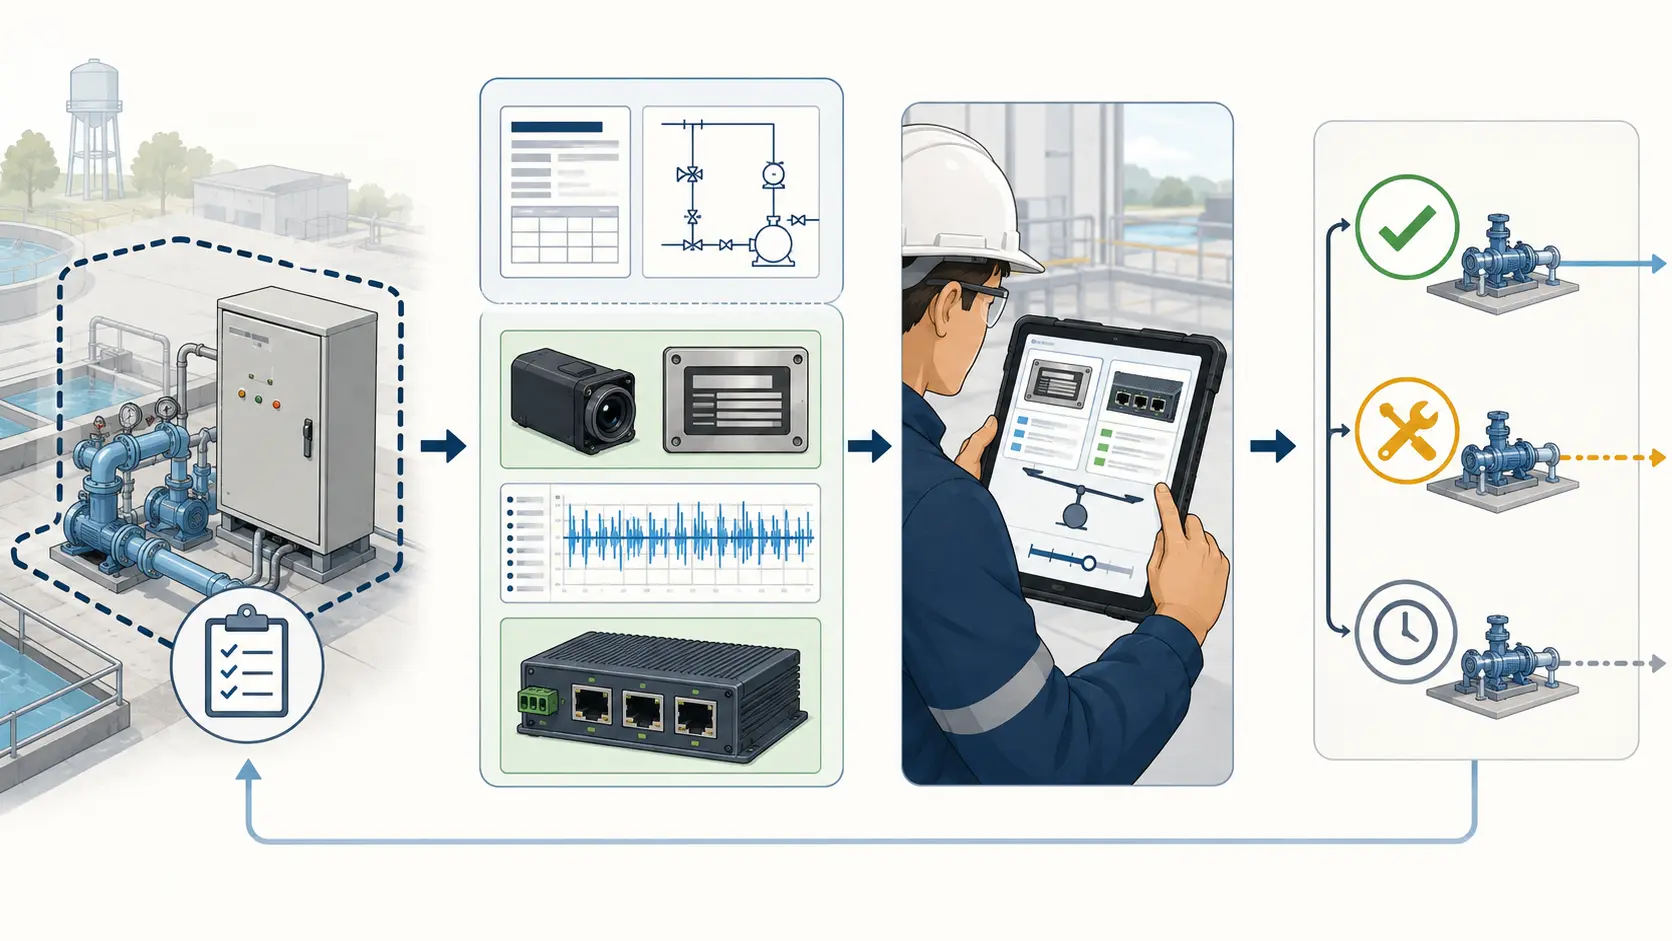
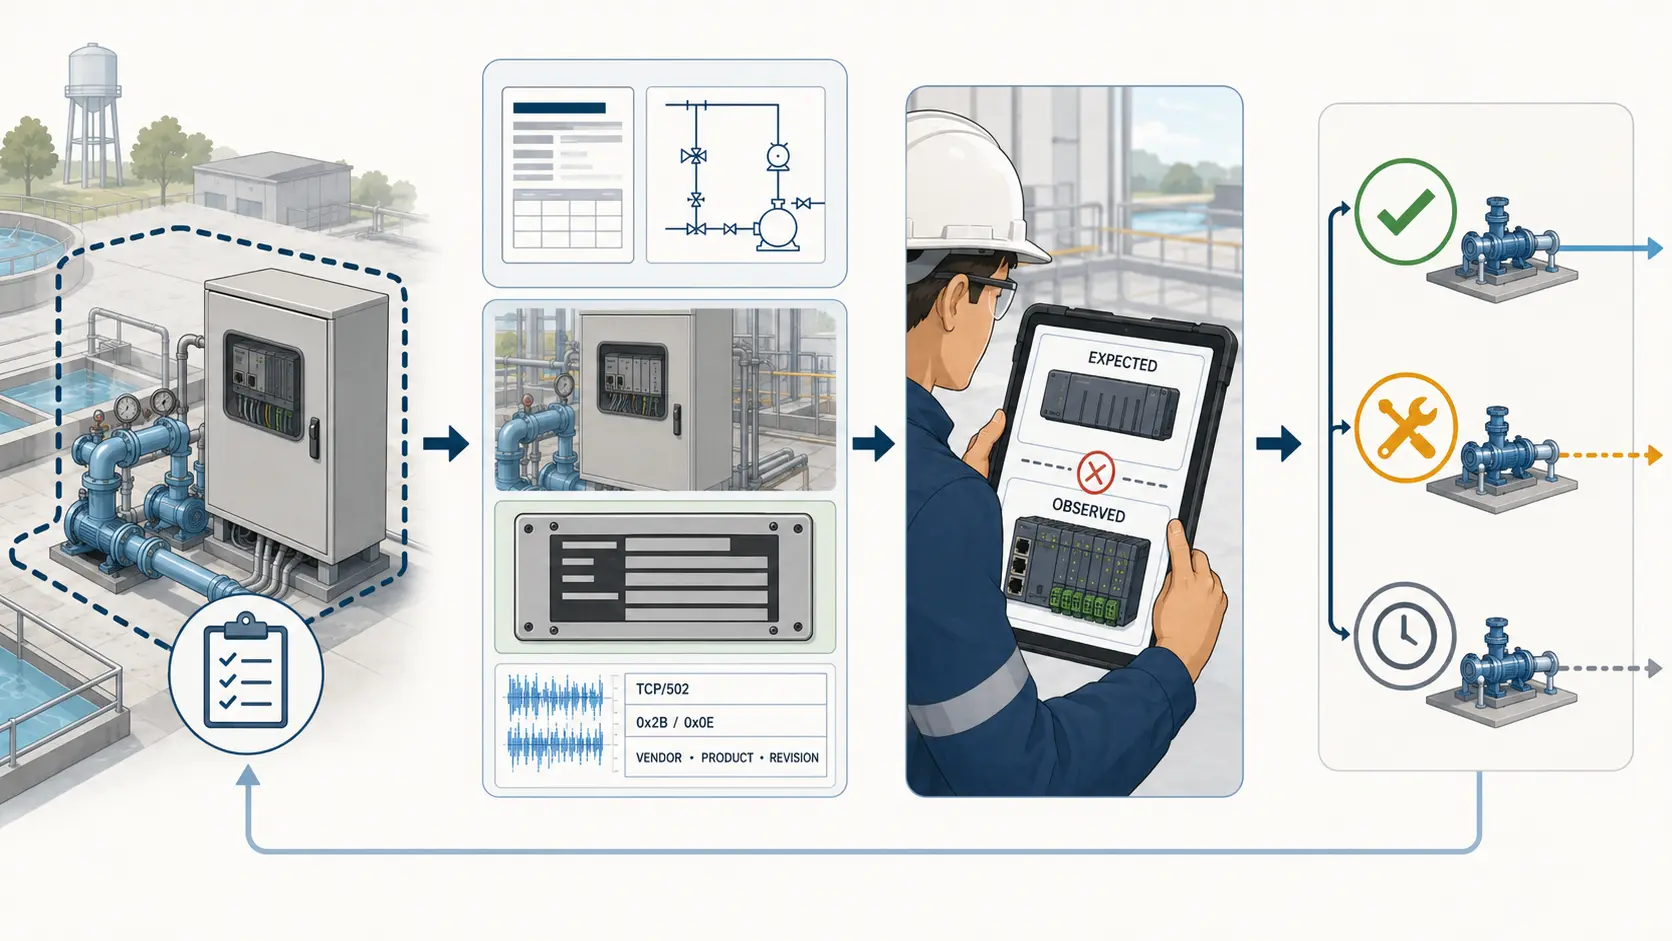
Make the README illustration technically specific

Changed region(s): [[0.0, 0.0308, 0.9952, 0.9245]]

diff --git a/README.md b/README.md
@@ -15,13 +15,13 @@ This repository is a research prototype. The authoritative current capability ma
 
 ## From evidence to a maintenance decision
 
-![Atlas assessment overview: authorized process scope, separate evidence sources, human reconciliation and proceed, adapt or postpone outcomes](docs/media/atlas-assessment-overview.webp)
+![Atlas assessment overview: an authorized water-process scope, contextual and nameplate evidence, bounded Modbus device identification, human reconciliation and proceed, adapt or postpone outcomes](docs/media/atlas-assessment-overview.webp)
 
 Atlas keeps the authorized process boundary, the customer-declared baseline, the collected or imported evidence and the assessor's decision visible in one case. Those layers are reviewed together without silently merging an observation into the accepted inventory.
 
 The purpose is not inventory accuracy for its own sake. It is to expose an equipment-identity discrepancy while there is still time to confirm the target, adapt the procedure, parts or expertise, or postpone the action before taking a pump out of service.
 
-The illustration explains the intended assessment flow. It is not customer evidence or proof that any pictured hardware combination is qualified. See the [compatibility matrix](docs/appliance/COMPATIBILITY-MATRIX.md) and [current implementation](IMPLEMENTATION.md) for tested boundaries.
+The protocol example is the current bounded Modbus/TCP Read Device Identification operation: one authorized target on TCP/502, function `0x2B` / MEI `0x0E`, basic objects only. See [network execution](docs/architecture/NETWORK-EXECUTION.md) for the exact contract. The illustration is not customer evidence or proof that any pictured hardware combination is qualified; see the [compatibility matrix](docs/appliance/COMPATIBILITY-MATRIX.md) and [current implementation](IMPLEMENTATION.md) for tested boundaries.
 
 ## How Atlas approaches an assessment
 
